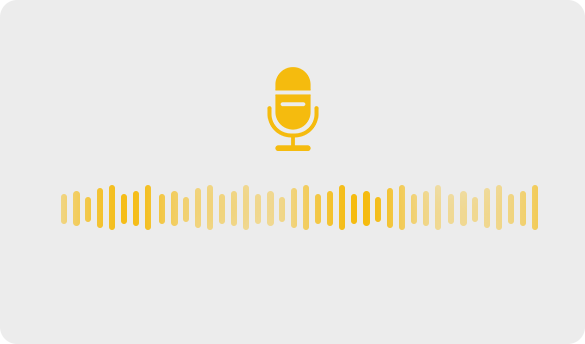
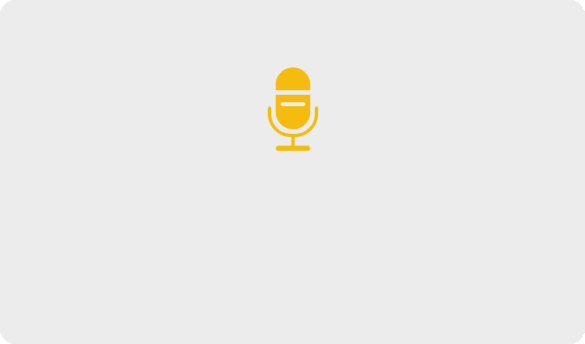
1

Changed region(s): [[0.0923, 0.5233, 0.9231, 0.6686], [0.4615, 0.2907, 0.5538, 0.436], [0.4615, 0.2616, 0.5231, 0.2907]]

diff --git a/src/pages/worksdetail.vue b/src/pages/worksdetail.vue
@@ -124,7 +124,7 @@
     </div>
 
     <!-- 录音 -->
-    <div class="Mask" v-show="showMask" @click="showMask=!showMask"></div>
+    <div class="Mask" v-show="showMask" @click="show()"></div>
     <div class="Eject" v-show="showMask">
       <img src="../../public/images/icon47.png" v-if="isVoice ==0" />
       <div class="vm-voice-box" v-if="isVoice ==0">
@@ -134,14 +134,19 @@
 
       <div class="vm-voice-player" v-if="isVoice ==1">
         <img src="../../public/images/icon48.png" />
+        <img src="../../public/images/1.gif" class="gif" />
         <div class="suspend" @click="voiceEnd">| |</div>
-        <div class="suspend2" @click="voiceEnd">最多可录60秒</div>
+        <div class="suspend2">最多可录{{luyinTime}}秒</div>
       </div>
 
       <!-- // isListen  // 0-未试听/试听结束 1-试听中 2-暂停试听
       // 录完音 按钮展示-->
       <div class="vm-voice-player" v-if="isVoice == 2">
         <img src="../../public/images/icon48.png" />
+        <div class="second">
+          <span>54″</span>
+          <img src="../../public/images/1.gif" alt />
+        </div>
         <div class="vm-vp-button">
           <p class="vm-vp-revoice" @click="Reset">重录</p>
           <p class="vm-vp-submit" :class="{'vm-vp-no-submit' : isSubmit}" @click="voiceHandle()">提交</p>
@@ -176,12 +181,12 @@ export default {
       serverId: "", // 录音微信服务id
       showMask: true, //蒙层以及录音显示
       tip: 1, //提交 0- 重录
-      isVoice: 1, // 0-未录音 1-录音中 2-录完音
+      isVoice: 2, // 0-未录音 1-录音中 2-录完音
       isListen: 0, // 0-未试听/试听结束 1-试听中 2-暂停试听
       isPlay: false, // 是否播放
       isSubmit: false, // 是否已提交
       play: true,
-      luyinTime: ""
+      luyinTime: 60
     };
   },
   mounted() {
@@ -207,6 +212,14 @@ export default {
           }
         });
       }, 300);
+      let a = setInterval(() => {
+        if (this.luyinTime == 1) {
+          this.luyinTime--;
+          clearInterval(a);
+        } else {
+          this.luyinTime--;
+        }
+      }, 1000);
     },
 
     // 停止录音
@@ -392,31 +405,47 @@ export default {
         document.getElementById("audio").addEventListener("ended", () => {
           this.play = true;
         });
-        let musicDom = document.getElementsByTagName("audio")[0]; // 获取AudioDom节点
-        musicDom.load(); //因为source标签不能直接更改路径，所以整个audio标签必须重新加载一次
-        musicDom.oncanplay = function() {
-          this.luyinTime = musicDom.duration;
-          console.log("音乐时长", musicDom.duration); //音乐总时长
-          //处理时长
-          var time = musicDom.duration;
-          //分钟
-          var minute = time / 60;
-          var minutes = parseInt(minute);
-          if (minutes < 10) {
-            minutes = "0" + minutes;
-          }
-          //秒
-          var second = time % 60;
-          var seconds = Math.round(second);
-          if (seconds < 10) {
-            seconds = "0" + seconds;
-          }
-          console.log("处理音乐时长", minutes + "：" + seconds);
-        };
+        // let musicDom = document.getElementsByTagName("audio")[0]; // 获取AudioDom节点
+        // musicDom.load(); //因为source标签不能直接更改路径，所以整个audio标签必须重新加载一次
+        // musicDom.oncanplay = function() {
+        //   this.luyinTime = musicDom.duration;
+        //   console.log("音乐时长", musicDom.duration); //音乐总时长
+        //   //处理时长
+        //   var time = musicDom.duration;
+        //   //分钟
+        //   var minute = time / 60;
+        //   var minutes = parseInt(minute);
+        //   if (minutes < 10) {
+        //     minutes = "0" + minutes;
+        //   }
+        //   //秒
+        //   var second = time % 60;
+        //   var seconds = Math.round(second);
+        //   if (seconds < 10) {
+        //     seconds = "0" + seconds;
+        //   }
+        //   console.log("处理音乐时长", minutes + "：" + seconds);
+        // };
       } else {
         audio.pause();
         this.play = true;
       }
+    },
+    //显示
+    show() {
+      this.showMask = !this.showMask;
+      audio.pause();
+      this.play = true;
+      _this.isVoice = 0;
+      wx.stopRecord({
+        success: function(res) {
+          // 微信生成的localId，此时语音还未上传至微信服务器
+          _this.isVoice = 0;
+        },
+        fail: function(res) {
+          console.log(JSON.stringify(res));
+        }
+      });
     }
   },
   created() {
@@ -1002,7 +1031,7 @@ export default {
           display: inline-block;
           width: 80%;
           line-height: 0.4rem;
-          margin: 0.2rem auto 0;
+          margin: 0.3rem auto 0;
           text-align: center;
           color: white;
           font-size: 0.24rem;
@@ -1016,12 +1045,46 @@ export default {
       display: flex;
       flex-direction: column;
       justify-content: space-around;
+      position: relative;
       img {
         display: block;
         width: auto;
         margin: 0rem auto 0.4rem;
         height: 3.3rem;
         border-radius: 0.2rem;
+      }
+      .gif {
+        width: 80%;
+        position: absolute;
+        height: 1.3rem;
+        top: 1.5rem;
+        left: 10%;
+      }
+      .second {
+        width: 90%;
+        position: absolute;
+        height: 1.3rem;
+        top: 1.5rem;
+        left: 8%;
+        display: flex;
+        justify-content: space-around;
+        align-items: center;
+        span {
+          display: block;
+          padding: 0 0.1rem;
+          text-align: center;
+          line-height: 1.3rem;
+          font-size: 0.3rem;
+          color: #f4b909;
+          font-weight: 500;
+          position: absolute;
+          left: 0;
+        }
+        img {
+          width: 95%;
+          height: 1.3rem;
+          margin: 0 0 0 0.2rem;
+        }
       }
       .suspend {
         width: 60%;
@@ -1036,7 +1099,7 @@ export default {
       .suspend2 {
         width: 60%;
         margin: 0.2rem auto 0;
-        color: #FDF2E3;
+        color: #fdf2e3;
         font-size: 0.25rem;
         line-height: 0.4rem;
         text-align: center;
@@ -1059,16 +1122,19 @@ export default {
         }
         .vm-vp-revoice {
           width: 0.8rem;
-          box-shadow: 0px 1px 3px 0px #ebb51f;
+          color: white;
+          background: #f5a60d;
         }
         .vm-vp-submit {
           width: 2rem;
-          background: #f5bb0e;
-          color: white;
+          background: white;
+          color: #f6bf27;
+          font-size: 0.26rem;
         }
         .vm-vp-pause {
           width: 0.8rem;
-          box-shadow: 0px 1px 3px 0px #ebb51f;
+          color: white;
+          background: #f5a60d;
         }
       }
     }

diff --git a/vue.config.js b/vue.config.js
@@ -2,11 +2,11 @@ module.exports = {
     
     devServer: {
         proxy: {
-            '/api': {
-                target: 'http://zuobei.400539.com/api.php/home',
+            '/vapi': {
+                target: '/api.php/home',
                 changeOrigin: true,
                 pathRewrite: {
-                    '/api': ''
+                    '/vapi': ''
                 }
             },
         }

diff --git a/src/main.js b/src/main.js
@@ -27,7 +27,7 @@ Vue.component('v-distpicker', Distpicker)
 Vue.config.productionTip = false
 
 //根据前端跨域做调整,/api是接口代理，代理是最安全的
-axios.defaults.baseURL = "/api";
+axios.defaults.baseURL = "/vapi";
 
 Vue.use(vueAxios, axios);
 Vue.use(vueCookie);
